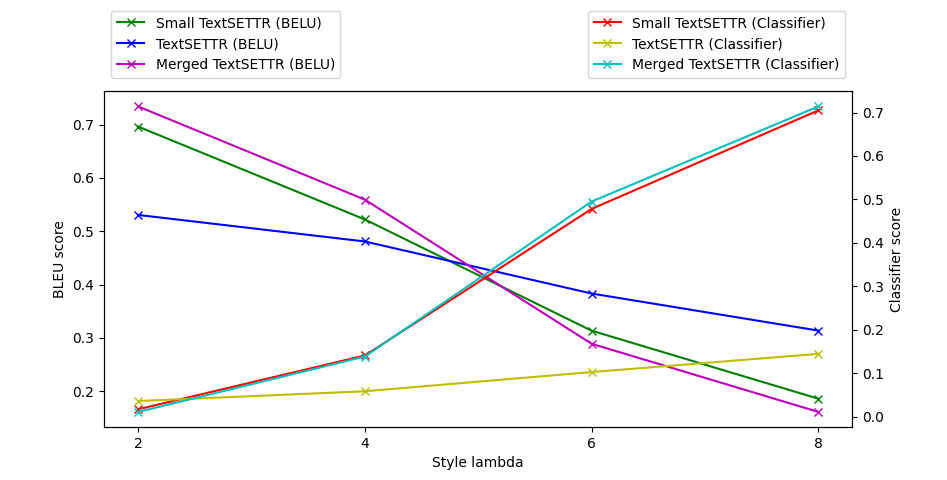
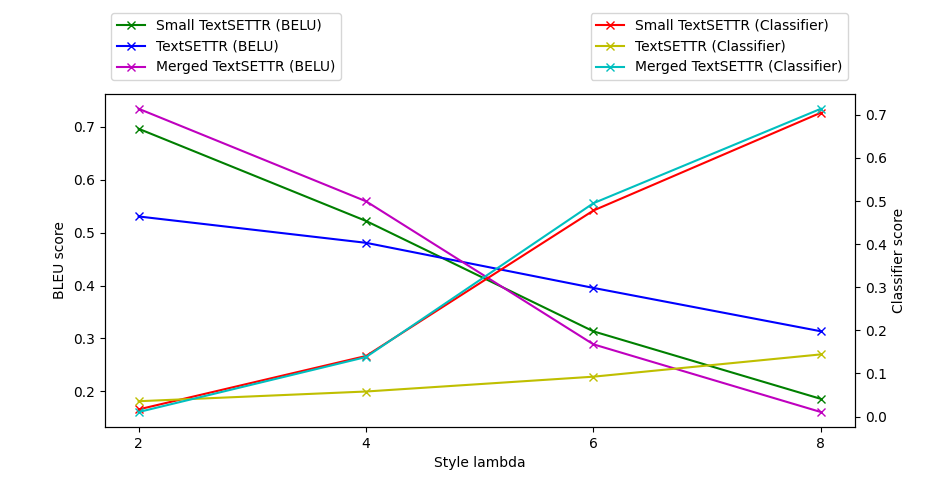
update numbers in figure

diff --git a/report/figures/make_dia.py b/report/figures/make_dia.py
@@ -4,8 +4,8 @@ import matplotlib.pyplot as plt
 style_lambda = [2,4,6,8]
 small_textsettr_bleu = [0.6961333800414901, 0.5220095500939619, 0.31344046007212173, 0.1859248527440013]
 small_textsettr_pred = [0.016655562958027982, 0.14054484785098859, 0.47800135376284536, 0.7048630519843488]
-textsettr_bleu = [0.530495318833397, 0.4807084553348837, 0.383125821523908, 0.3136000090082577]
-textsettr_pred = [0.03561892046538241, 0.05815339148672482, 0.102321343973213, 0.14425016812373906]
+textsettr_bleu = [0.530495318833397, 0.4807084553348837, 0.3955154511404267, 0.3136000090082577]
+textsettr_pred = [0.03561892046538241, 0.05815339148672482, 0.0925589836660617, 0.14425016812373906]
 merged_textsettr_bleu = [0.73391013173726621, 0.55915919570210693, 0.28891754485971410, 0.161076446102383174]
 merged_textsettr_pred = [0.01054103968632295, 0.13810677669544428, 0.49498108728201640, 0.7139667449469419]
 
